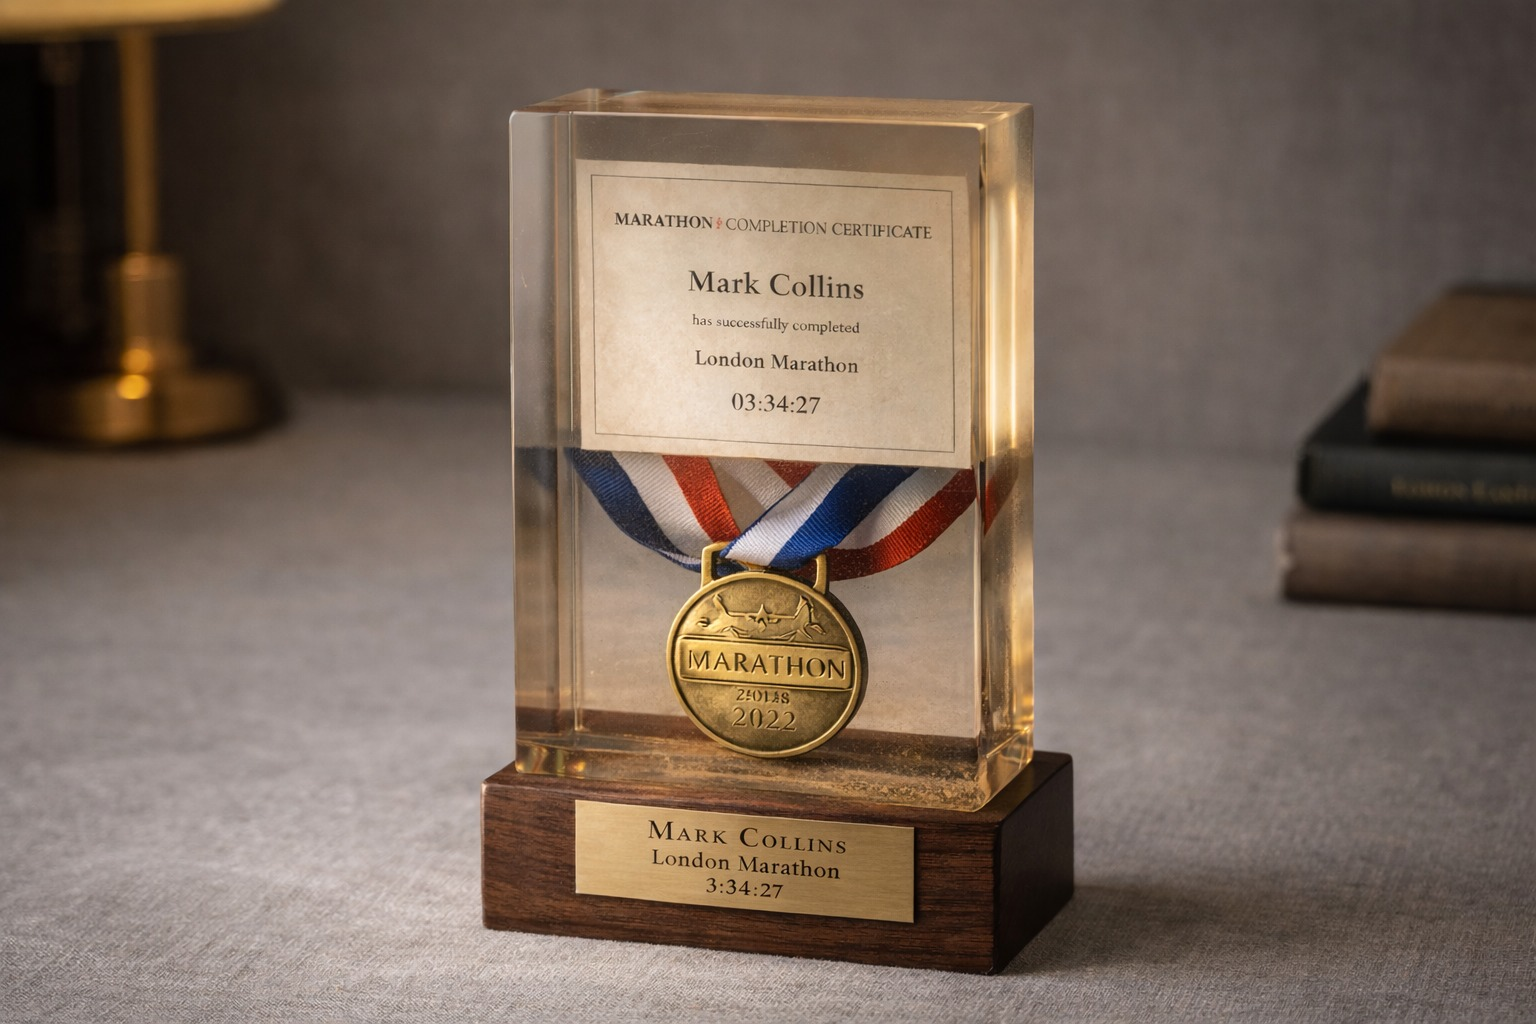
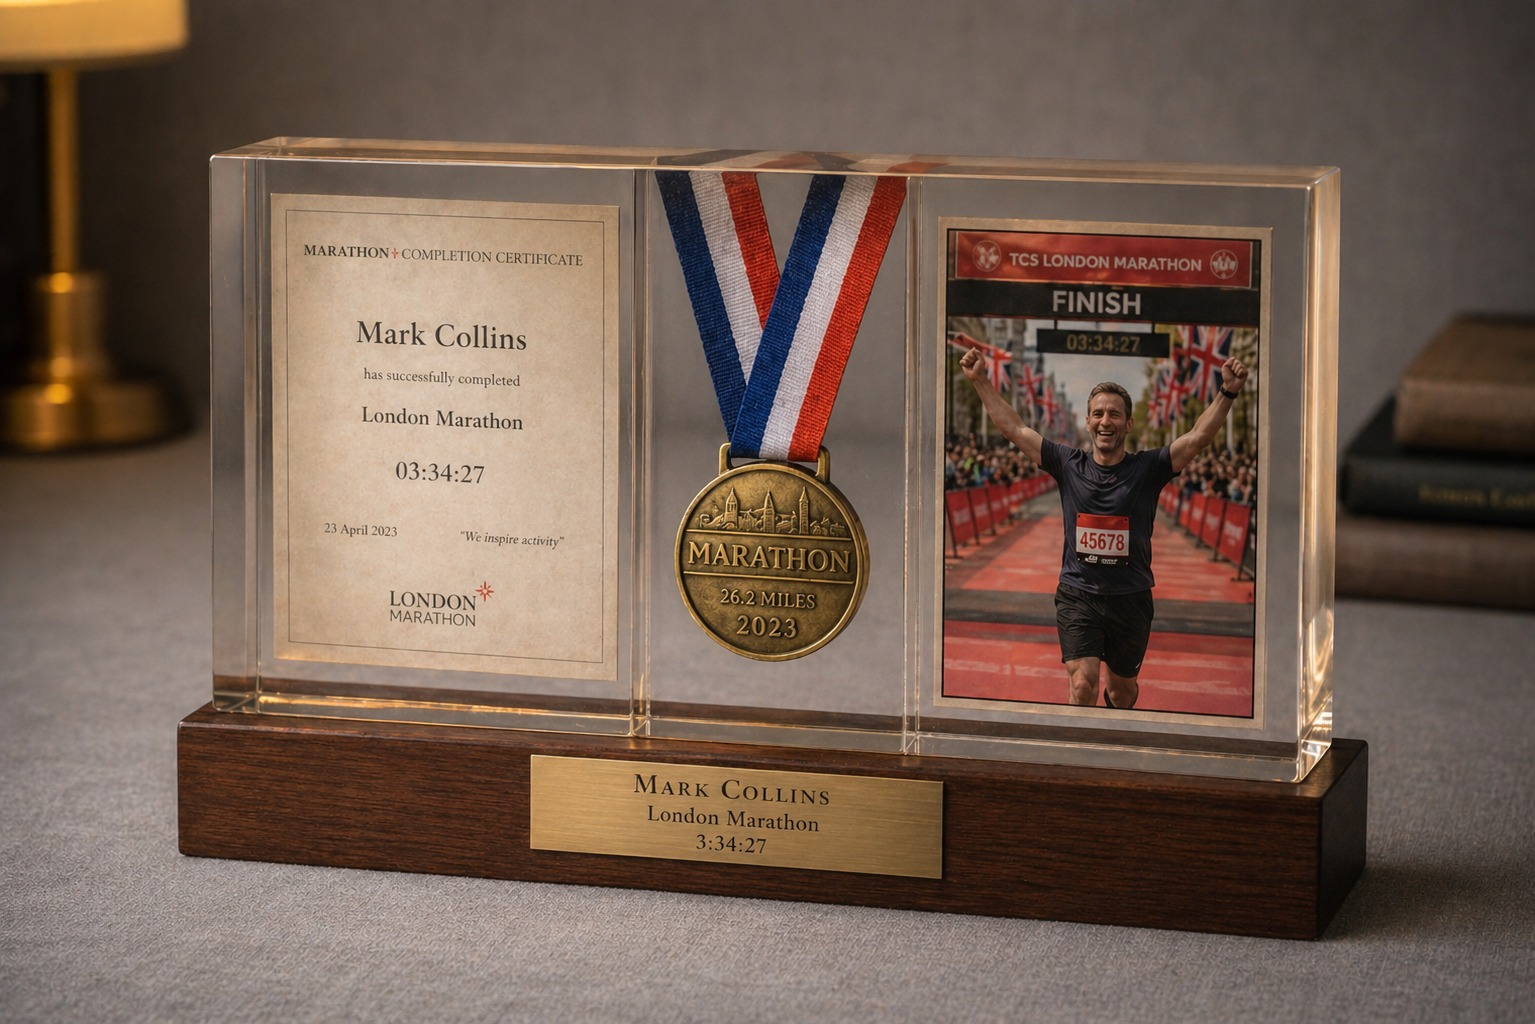
cb

diff --git a/app/london-marathon-2026/page.js b/app/london-marathon-2026/page.js
@@ -229,7 +229,7 @@ export default function LondonMarathon2026() {
             {[
               {
                 title: 'Medal & Race Number',
-                desc: 'Your finisher\'s medal and race bib set in hand-poured resin, framed in English oak or oak. A display piece that tells the story at a glance.',
+                desc: 'Your finisher\'s medal and race bib set in hand-poured resin, framed in English oak. A display piece that tells the story at a glance.',
               },
               {
                 title: 'Finish Time Piece',
@@ -347,7 +347,7 @@ export default function LondonMarathon2026() {
                 color: '#444',
                 marginBottom: '1.5rem',
               }}>
-                Your finisher's medal and completion certificate, set in hand-poured optical resin and mounted on an English oak base. A personalised brass plate is engraved with your name, race, and finish time.
+                Your finisher's medal, completion certificate, and finish line photograph — all set together in hand-poured optical resin and mounted on an English oak base. A personalised brass plate is engraved with your name, race, and finish time.
               </p>
               <p style={{
                 fontFamily: 'var(--sans)',
@@ -367,7 +367,7 @@ export default function LondonMarathon2026() {
               }}>
                 {[
                   'Hand-poured optical resin block',
-                  'Your finisher\'s medal &amp; completion certificate',
+                  'Your finisher\'s medal, completion certificate &amp; finish line photograph',
                   'English oak wooden base',
                   'Personalised engraved brass nameplate',
                   'Presented in a Kent &amp; Vale gift box',

diff --git a/app/london-marathon-2026/order/page.js b/app/london-marathon-2026/order/page.js
@@ -166,7 +166,7 @@ function OrderForm() {
           </p>
           {[
             'Hand-poured optical resin block',
-            'Your finisher\'s medal & completion certificate',
+            'Your finisher\'s medal, completion certificate & finish line photograph',
             'English oak wooden base',
             'Personalised engraved brass nameplate',
             'Presented in a Kent & Vale gift box',
